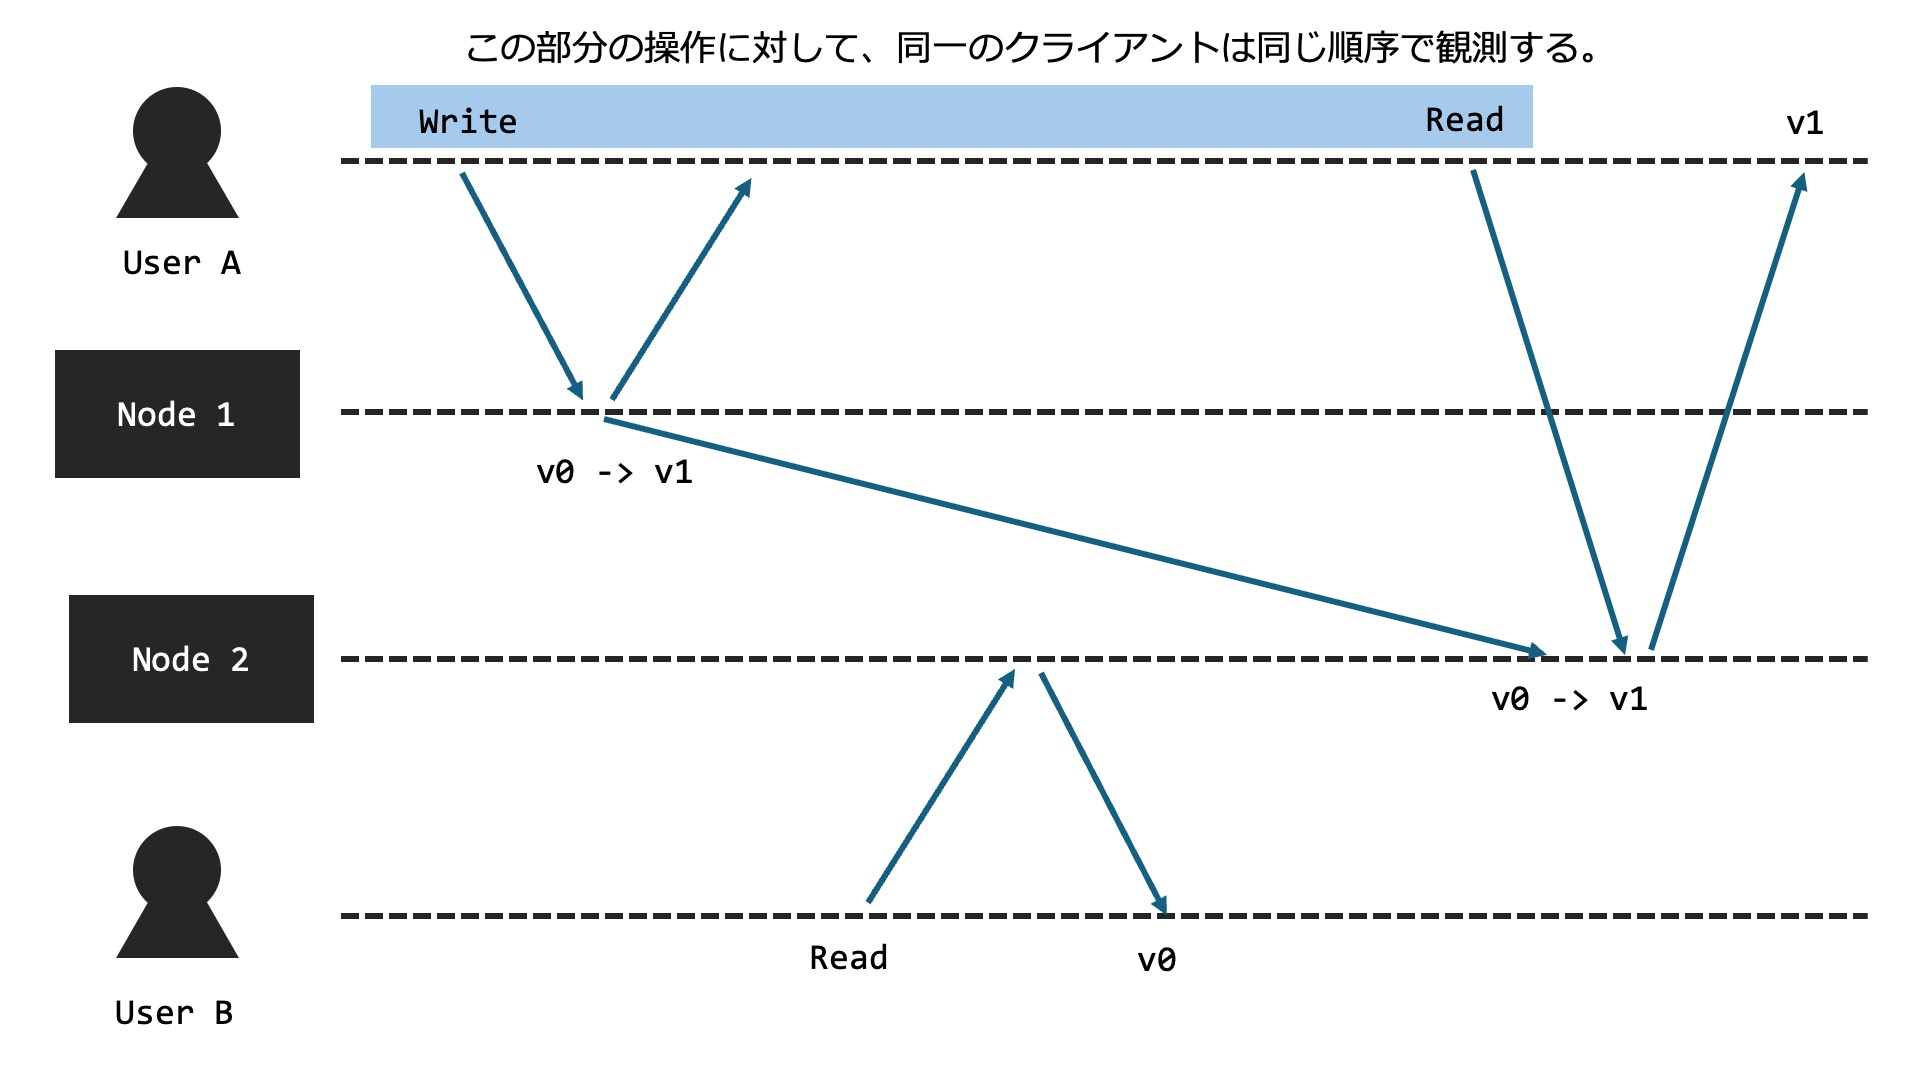
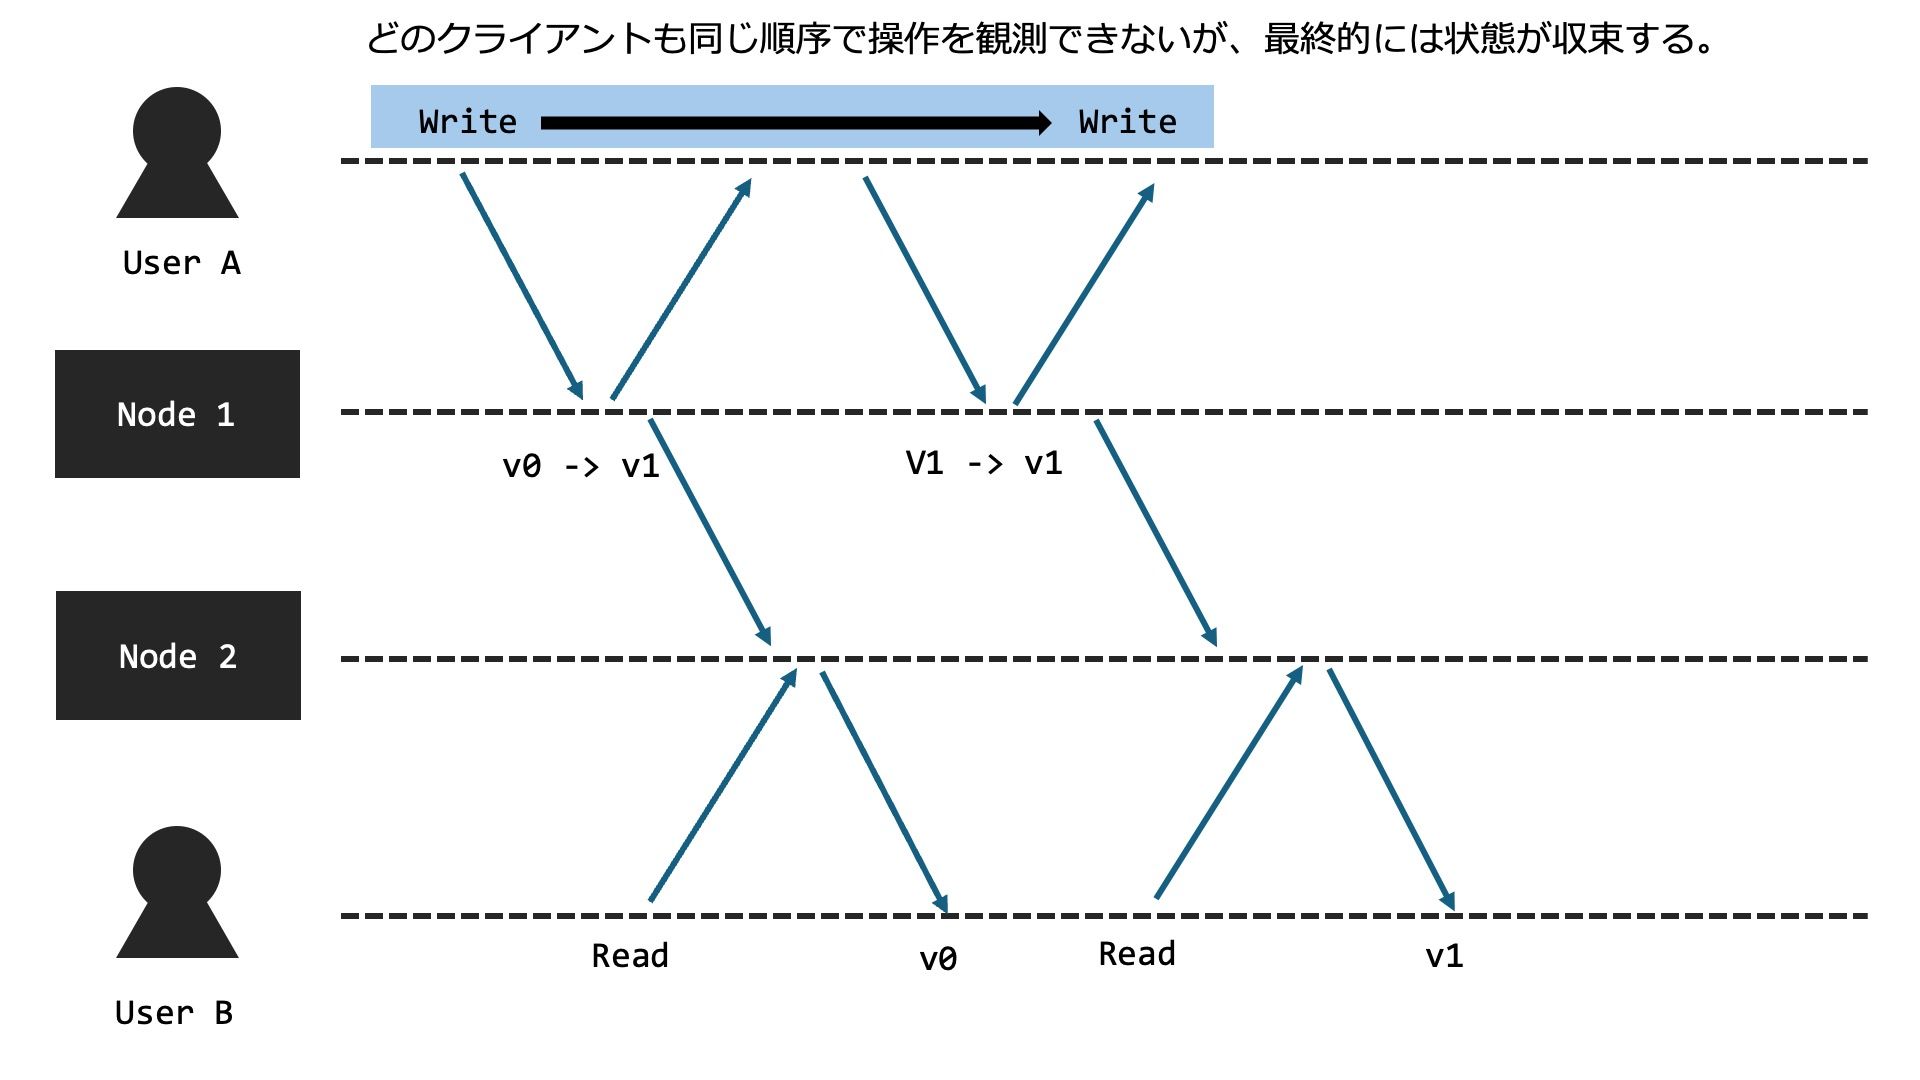
fix: 一貫性モデル

diff --git a/docs/2-consistency.md b/docs/2-consistency.md
@@ -6,10 +6,13 @@
 そしてこの複製されたデータがどのようにクライアントに観測されるかどうかを一貫性と言います。
 さらにどのように観測されるべきかをモデル化することができ、これを一貫性モデルと言います。
 
-一貫性モデルは様々存在しますが、ここでは代表的な一貫性モデルを４つ取り上げます。
-一貫性には二つの観点が存在する。
-それはあるクライアント視点から見たときに、一意の操作が観測できるという一貫性モデルであるクライアント中心一貫性モデル（client centric consistency model）。
-そして、実時間で見たときに、一意の操作が観測できるという一貫性モデルである。
+
+# 一貫性の種類
+
+一貫性は二つの観点が存在する。
+まず、どのクライアントも一意の操作が観測できるというデータ中心一貫性モデル（data centric consistency model）である。
+だが、広域に計算機が分散し、それらを協調するようなシステムでは、データ中心一貫性モデルを達成することが困難な場合もある。
+そこで、クライアント視点から見たときに、一意の操作が観測できるという一貫性モデルであるクライアント中心一貫性モデル（client centric consistency model）が定義された。これはシステム全体では一貫性が保てていない時間もあるが、ある一つのクライアントからは一貫性があるように見えるようにするというモデルである。
 
 正直言葉で言われてもわからないので、具体的なモデルを見てみよう！
 
@@ -19,26 +22,43 @@
 
 - データ中心一貫性モデル（data centric consistency model）
     - 逐次一貫性（Sequential Consistency）
-    -  線形化可能性（Linearizability）
+    - 線形化可能性（Linearizability）
 
 
 ## 結果整合性（Eventual Consistency）
-結果整合性は、最も緩やかな一貫性モデルの一つ。結果整合性モデルでは、システムの全てのノードが最終的には同じデータの状態に到達することを保証する。だが、即時に一貫性が保たれることは保証しない。すなわち、データの更新がすべてのノードに伝播するのに時間がかかるかもしれないが、十分な時間が経過すれば、全てのノードが一貫した状態を持つ。
+結果整合性は、結果整合性モデルでは、システムの全てのノードが最終的には同じデータの状態に到達することを保証する。すなわち全てのプロセスは同じ順序で操作を観測できない場合もあり、即時に一貫性が保たれることは保証しない。データの更新がすべてのノードに伝播するのに時間がかかるかもしれないが、十分な時間が経過すれば、全てのノードが一貫した状態を持つ。もっとも緩い居完成モデルである
 
 ![Eventual Consistency](imgs/eventual-consistency.jpeg)
 
 ## 因果一貫性（Causal Consistency）
-因果一貫性は、操作の因果関係に基づく一貫性モデルです。このモデルは、「ある操作が他の操作に依存している場合、その依存関係を保持する」ことを保証します。全てのプロセスは、因果関係が定められた操作に関しては同じ順序を観測する。だが同時に行われる操作の順序については保証しない。
+因果一貫性は、因果関係をもつ操作（書き込み）がシステム全体で一つの一貫した順序で実行されることを保証するモデルである。すなわち「ある書き込みが他の操作に依存している場合、その依存関係を保持する」ことを保証します。全てのプロセスは、因果関係が定められた書き込みに関しては同じ順序を観測する。だが同時に行われる操作の順序については保証しない。
+
+**Advanced:**
+因果一貫性はさらに４つの一貫性に分離することができる。
+
+- モノトニック読み取り一貫性(monotonic-read consistency):
+あるクライアントがノードから値を読み込むと、同クライアントによる以降の読み込み操作では、常に同じ値かより新しい値が読み込まれる。
+
+- モノトニック書き込み一貫性(monotonic-write consistency):
+あるクライアントの書き込み操作は、同クライアントによる後続の書き込み操作よりも前に完了している。
+
+- 書き込み後読み取り一貫性(read-your-write consistency):
+あるクライアントによる書き込み操作の結果は、同クライアントによる後続の読み取り操作で必ず観測される。
+
+- 読み取り後続書き込み(write-follow-read consistency):
+読み取り操作に後続する書き込み操作は、常に前回の読み取り操作時と同じか、より新しい値に対して行われることが保証されている。
+
 
 ![Causal Consistency](imgs/casual-consistency.jpeg)
 
 ## 逐次一貫性（Sequential Consistency）
-逐次一貫性は、分散システムにおける全ての操作がシステム全体で一つの一貫した順序で実行されることを保証するモデルである。全てのプロセスは同じ順序で操作を観測する。だがその操作が操作がいつ行われるのかはノードによって異なる。つまり実時間はクライアントがアクセスするノードによって異なる可能性がある。
+逐次一貫性は、全ての操作がシステム全体で一つの一貫した順序で実行されることを保証するモデルである。すなわち全てのプロセスは同じ順序で操作を観測する。だがその操作が操作がいつ行われるのかはノードによって異なる。つまり実時間はクライアントがアクセスするノードによって異なる可能性がある。
+逐次的一貫性では、すべての書き込みはすべてのプロセスで同じ順序で観測される。因果的一貫性では、因果的に関連する書き込みは同じ順序で観測される。したがって逐次的一貫性の要件が満たされていれば、この因果的一貫性の要件は確実に満たされる。
 
-![Sequential Consistency](imgs/sequential-consisitency.jpeg)
+![Sequential Consistency](imgs/sequential-consistency.jpeg)
 
 ## 線形化可能性（Linearizability）
-全ての操作が実際に起こった瞬間に一意の順序で実行されたかのように見えることを保証する。最も厳しい一貫性モデルです。つまり実時間に基づき、クライアントの観測が変わる一貫性モデルである。
+線形化可能性は、全ての操作が実際に起こった瞬間に一意の順序で実行されたかのように見えることを保証する。すなわち実時間に基づき、すべてのプロセスは同じ順序で書き込みが実行されたことを観測する。最も厳しい一貫性モデルである。実時間の制約を排除した一貫性モデルが逐次一貫性であるともいえる。
 
 ![Sequential Consistency](imgs/linearizability.jpeg)
 
@@ -60,3 +80,4 @@
 - https://techblog.yahoo.co.jp/architecture/2015-04-ditributed-consistency/
 - https://www.alexdebrie.com/posts/dynamodb-eventual-consistency/
 - https://www.sraoss.co.jp/tech-blog/db-special-lecture/masunaga-db-special-lecture-11/
+- https://www-higashi.ist.osaka-u.ac.jp/~nakata/mobile-cp/chap-06j-1.pdf
